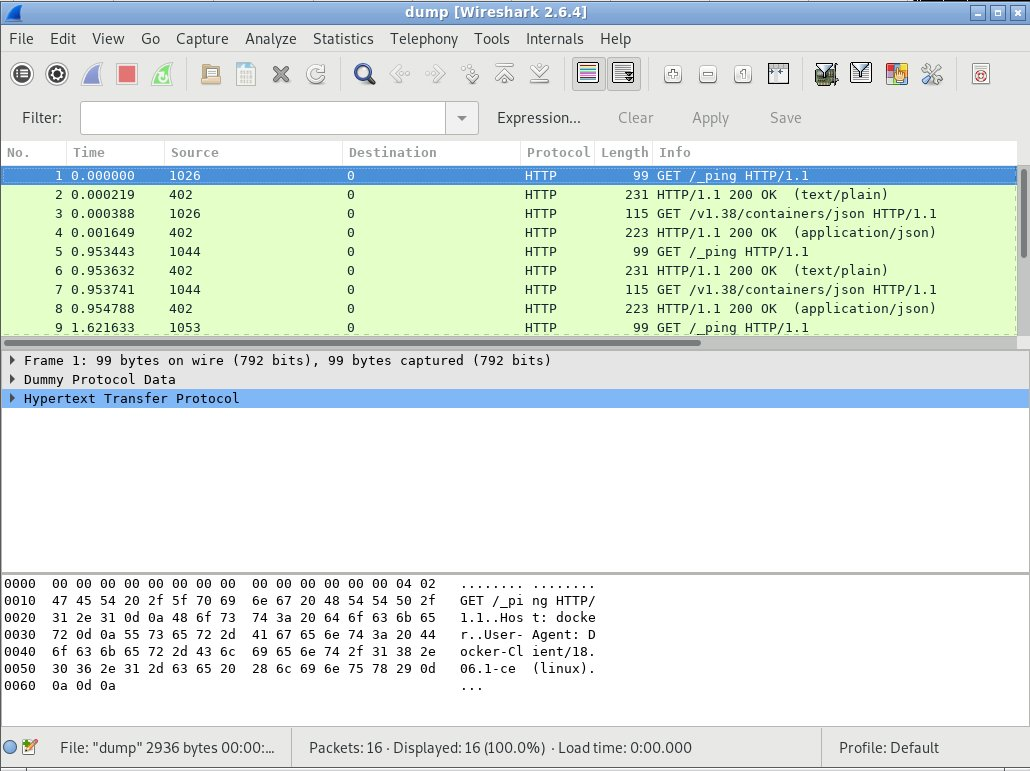
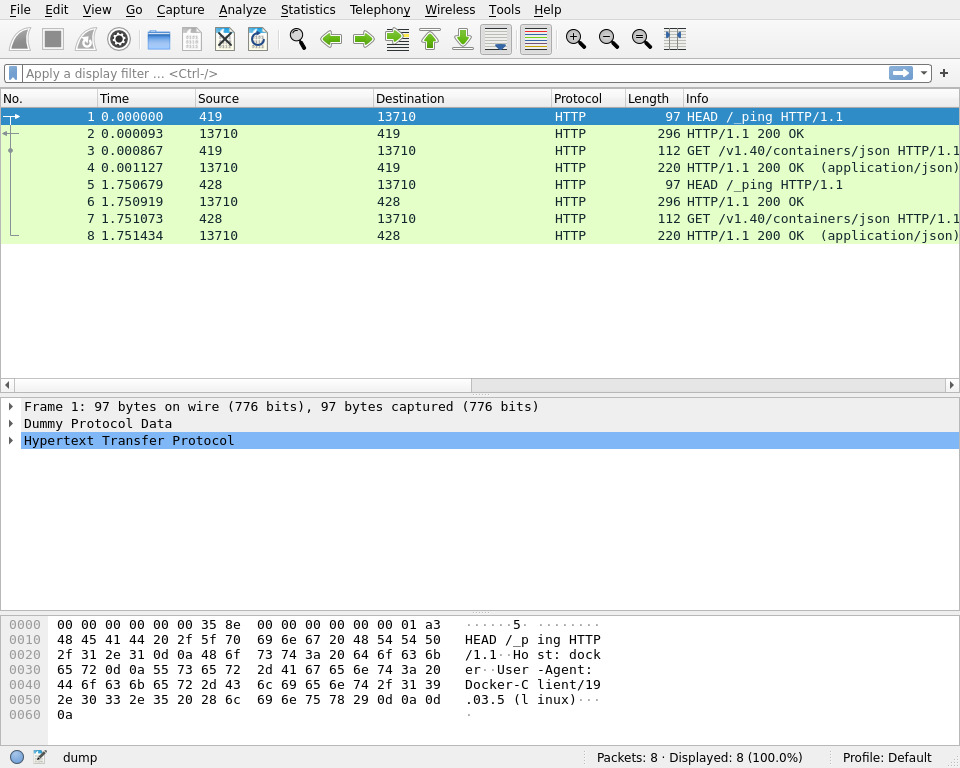
also capture peer pid

diff --git a/sockdump.py b/sockdump.py
@@ -23,6 +23,7 @@ bpf_text = '''
 
 struct packet {
     u32 pid;
+    u32 peer_pid;
     u32 len;
     u32 flags;
     char comm[TASK_COMM_LEN];
@@ -45,6 +46,7 @@ int probe_unix_stream_sendmsg(struct pt_regs *ctx,
     unsigned int n, match = 0;
     struct iov_iter *iter;
     const struct kvec *iov;
+    struct pid *peer_pid;
 
     addr = ((struct unix_sock *)sock->sk)->addr;
     path = addr->name[0].sun_path;
@@ -64,6 +66,7 @@ int probe_unix_stream_sendmsg(struct pt_regs *ctx,
 
     packet->pid = bpf_get_current_pid_tgid() >> 32;
     bpf_get_current_comm(&packet->comm, sizeof(packet->comm));
+    packet->peer_pid = sock->sk->sk_peer_pid->numbers[0].nr;
 
     iter = &msg->msg_iter;
     if ((iter->type & WRITE) == 0 || iter->iov_offset != 0) {
@@ -142,6 +145,7 @@ class Packet(ct.Structure):
     _pack_ = 1
     _fields_ = [
         ('pid', ct.c_uint),
+        ('peer_pid', ct.c_uint),
         ('len', ct.c_uint),
         ('flags', ct.c_uint),
         ('comm', ct.c_char * TASK_COMM_LEN),
@@ -158,7 +162,6 @@ def parse_event(event, size):
     global packet_count
 
     packet_count += 1
-
     packet = ct.cast(event, ct.POINTER(Packet)).contents
     event += PACKET_SIZE
 
@@ -174,10 +177,11 @@ def parse_event(event, size):
 
 def print_header(packet, data):
     ts = time.time()
-    ts = time.strftime('%H:%M:%S', time.localtime(ts)) + '.%d' % (ts%1 * 1000)
+    ts = time.strftime('%H:%M:%S', time.localtime(ts)) + '.%03d' % (ts%1 * 1000)
 
-    print('%s >>> process %s[%d] len %d(%d)' % (
-        ts, packet.comm.decode(), packet.pid, len(data), packet.len))
+    print('%s >>> process %s [%d -> %d] len %d(%d)' % (
+        ts, packet.comm.decode(), packet.pid, packet.peer_pid,
+        len(data), packet.len))
 
 def string_output(cpu, event, size):
     packet, data = parse_event(event, size)
@@ -224,7 +228,7 @@ def pcap_output(cpu, event, size):
     ts = time.time()
     ts_sec = int(ts)
     ts_usec = int((ts % 1) * 10**6)
-    header = struct.pack('>QQ', 0, packet.pid)
+    header = struct.pack('>QQ', packet.peer_pid, packet.pid)
 
     data = header + data
     size = len(header) + packet.len
@@ -266,6 +270,7 @@ def main(args):
     else:
         sys.stdout = open(args.output, 'w')
 
+    print('waiting for data', file=sys.stderr)
     while 1:
         b.perf_buffer_poll()
 

diff --git a/README.md b/README.md
@@ -11,55 +11,52 @@ Dump unix domain socket traffic.
 ### string output
 
 ```
-$ sudo ./sockdump.py /var/run/docker.sock # run "docker ps" in another terminal
->>> docker[3412] len 83
-GET /_ping HTTP/1.1
+$ sudo ./sockdump.py --format string /var/run/docker.sock
+waiting for data
+19:23:06.633 >>> process docker [31042 -> 13710] len 81(81)
+HEAD /_ping HTTP/1.1
 Host: docker
-User-Agent: Docker-Client/18.06.1-ce (linux)
+User-Agent: Docker-Client/19.03.5 (linux)
 
->>> dockerd[370] len 215
+19:23:06.633 >>> process dockerd [13710 -> 31042] len 280(280)
 HTTP/1.1 200 OK
-Api-Version: 1.38
+Api-Version: 1.40
+Cache-Control: no-cache, no-store, must-revalidate
+Content-Length: 0
+Content-Type: text/plain; charset=utf-8
 Docker-Experimental: false
 Ostype: linux
-Server: Docker/18.06.1-ce (linux)
-Date: Tue, 25 Sep 2018 07:05:03 GMT
-Content-Length: 2
-Content-Type: text/plain; charset=utf-8
+Pragma: no-cache
+Server: Docker/19.03.5 (linux)
+Date: Fri, 20 Dec 2019 03:23:06 GMT
 
-OK>>> docker[3412] len 99
-GET /v1.38/containers/json HTTP/1.1
+19:23:06.633 >>> process docker [31042 -> 13710] len 96(96)
+GET /v1.40/containers/json HTTP/1.1
 Host: docker
-User-Agent: Docker-Client/18.06.1-ce (linux)
+User-Agent: Docker-Client/19.03.5 (linux)
 
->>> dockerd[370] len 207
+19:23:06.633 >>> process dockerd [13710 -> 31042] len 204(204)
 HTTP/1.1 200 OK
-Api-Version: 1.38
+Api-Version: 1.40
 Content-Type: application/json
 Docker-Experimental: false
 Ostype: linux
-Server: Docker/18.06.1-ce (linux)
-Date: Tue, 25 Sep 2018 07:05:03 GMT
+Server: Docker/19.03.5 (linux)
+Date: Fri, 20 Dec 2019 03:23:06 GMT
 Content-Length: 3
 
 []
+^C
+4 packets captured
 ```
 
 ### pcap output
 
 ```
 $ sudo ./sockdump.py /var/run/docker.sock --format pcap --output dump
+waiting for data
 ^C
-16 packets captured
-$ wireshark-gtk -X lua_script:wireshark/dummy.lua dump
+8 packets captured
+$ wireshark -X lua_script:wireshark/dummy.lua dump
 ```
 ![wireshark](wireshark/wireshark.jpg)
-
-## Todo
-
-Right now the output only has the sender's pid.  It would be nice to
-have pids of both the sender and the receiver.  One approach is to
-have 2 probes: one kprobe at `unix_stream_sendmsg()` to set
-`SO_PASSCRED` on the socket (using `bpf_setsockopt()`) such that the
-sender's pid is passed to the receiver, and the other kretprobe at
-`unix_stream_recvmsg()` to dump data and pids.
